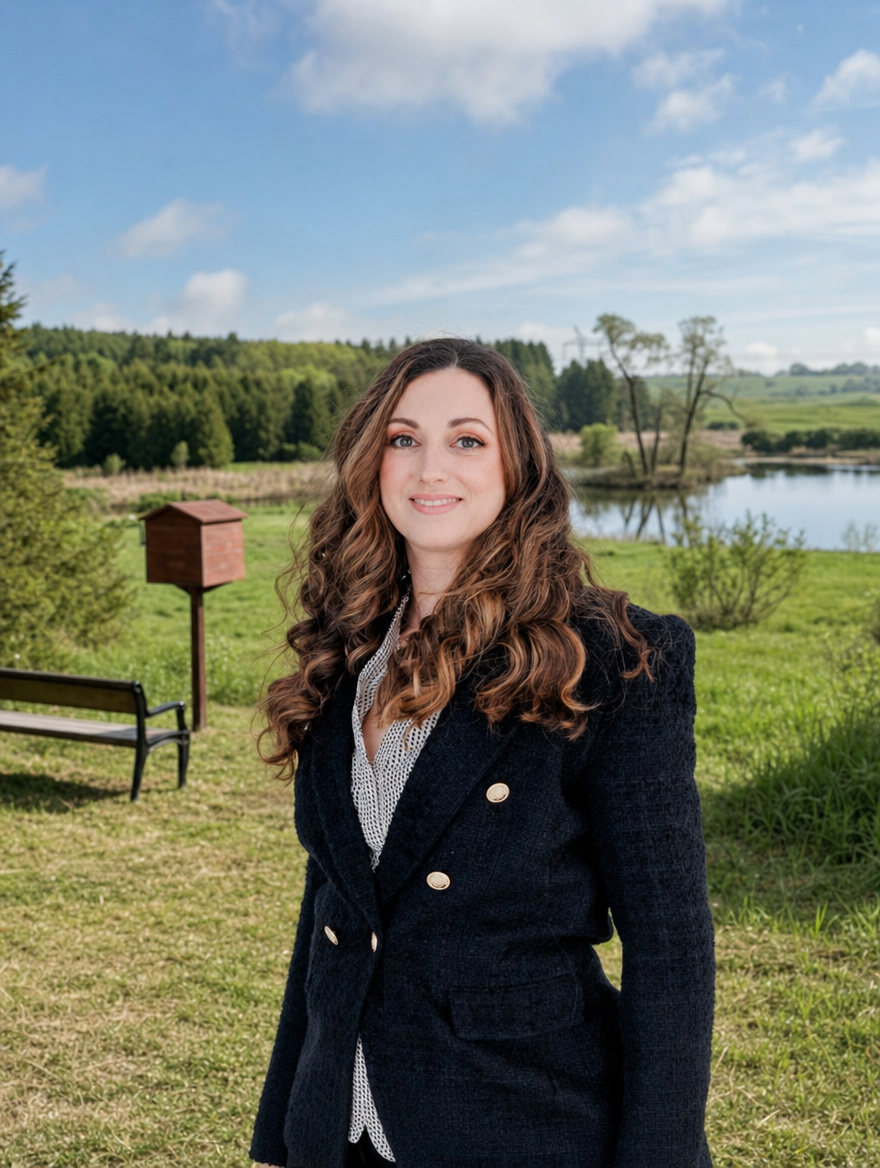
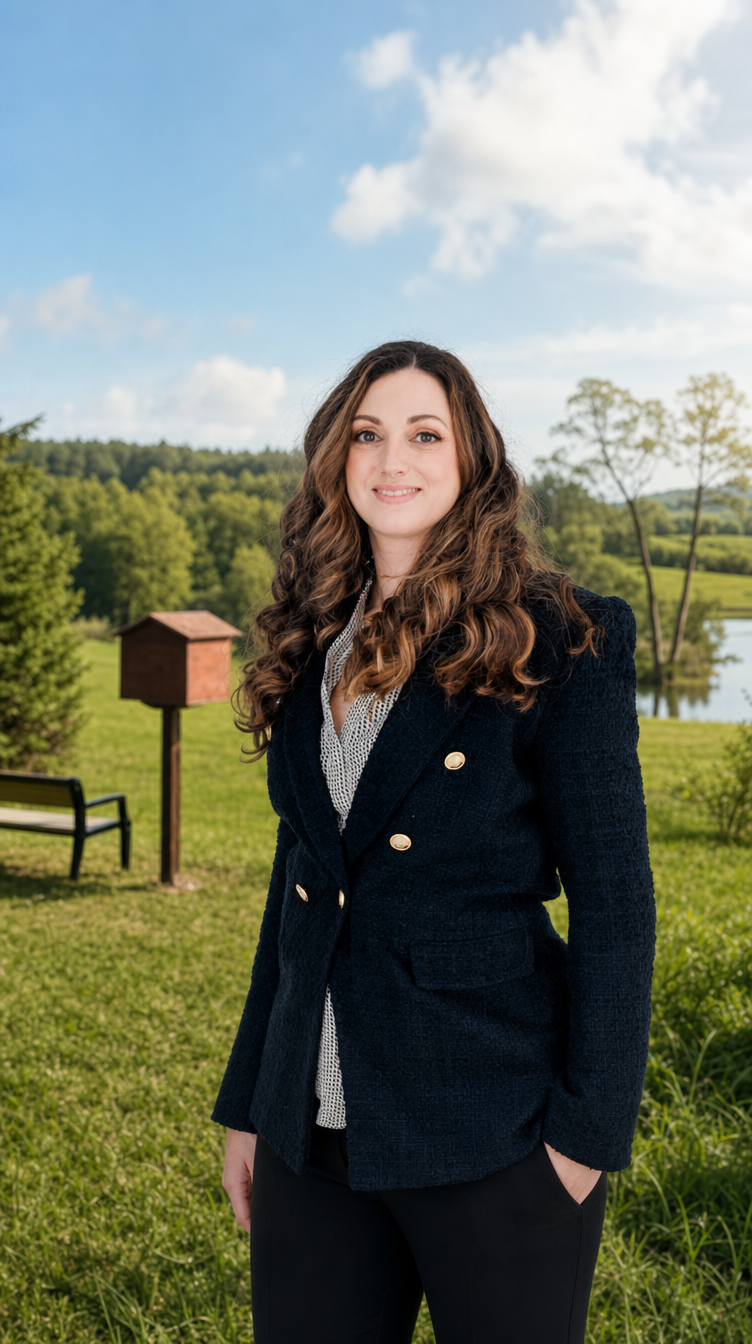
Restore full-bleed hero with updated photos

diff --git a/src/styles.css b/src/styles.css
@@ -349,7 +349,7 @@ a { color: inherit; }
 .hero {
   position: relative;
   min-height: 100vh;
-  background: linear-gradient(90deg, rgba(20, 20, 20, 0.18) 0%, rgba(20, 20, 20, 0.08) 28%, rgba(245, 239, 228, 0.72) 52%, rgba(245, 239, 228, 0.96) 100%);
+  background: url("/images/hero-desktop.png") 26% center / cover no-repeat;
   padding-top: 120px;
   padding-bottom: var(--sp-8);
   display: flex;
@@ -359,7 +359,9 @@ a { color: inherit; }
 .hero__scrim {
   position: absolute;
   inset: 0;
-  background: radial-gradient(circle at 78% 24%, rgba(255, 255, 255, 0.14), transparent 34%);
+  background:
+    linear-gradient(90deg, rgba(17, 17, 17, 0.18) 0%, rgba(17, 17, 17, 0.06) 34%, rgba(245, 239, 228, 0.08) 46%, rgba(245, 239, 228, 0.42) 62%, rgba(245, 239, 228, 0.78) 100%),
+    linear-gradient(180deg, rgba(17, 17, 17, 0.16) 0%, rgba(17, 17, 17, 0.02) 24%, rgba(17, 17, 17, 0.24) 100%);
   pointer-events: none;
 }
 .hero__inner {
@@ -369,16 +371,15 @@ a { color: inherit; }
   margin: 0 auto;
   padding: 0 var(--container-pad);
   width: 100%;
-  display: grid;
-  grid-template-columns: minmax(0, 1.05fr) minmax(420px, 0.95fr);
-  gap: var(--sp-6);
-  align-items: center;
+  display: flex;
+  justify-content: flex-end;
 }
-.hero__media {
-  min-height: 720px;
-  background: url("/images/hero-desktop.png") 46% center / cover no-repeat;
-  border-radius: 32px;
-  box-shadow: var(--shadow-lg);
+.hero__panel {
+  width: min(100%, 560px);
+  display: flex;
+  flex-direction: column;
+  gap: var(--sp-5);
+  align-items: flex-start;
 }
 .hero__copy {
   display: flex;
@@ -424,6 +425,7 @@ a { color: inherit; }
   font-weight: 500;
   margin: var(--sp-2) 0 0;
   max-width: 18ch;
+  text-shadow: 0 1px 0 rgba(255, 255, 255, 0.4);
 }
 .hero__mobile-ctas {
   display: none;
@@ -431,14 +433,13 @@ a { color: inherit; }
   margin-top: var(--sp-2);
 }
 .hero__form {
-  background: rgba(255, 255, 255, 0.66);
+  background: rgba(245, 239, 228, 0.88);
   backdrop-filter: blur(12px);
   border-radius: 28px;
   padding: var(--sp-6);
   box-shadow: var(--shadow-lg);
   width: 100%;
-  border: 1px solid rgba(255, 255, 255, 0.55);
-  grid-column: 2;
+  border: 1px solid rgba(255, 255, 255, 0.48);
 }
 .hero__scroll {
   position: absolute;
@@ -946,28 +947,34 @@ a { color: inherit; }
   .mobile-menu { display: flex; }
 
   .hero {
-    min-height: auto;
+    min-height: 100svh;
     padding-top: 84px;
     padding-bottom: var(--sp-6);
-    background: var(--c-cream);
+    background: url("/images/hero-mobile.png") center 28% / cover no-repeat;
   }
-  .hero__scrim { display: none; }
+  .hero__scrim {
+    display: block;
+    background:
+      linear-gradient(180deg, rgba(17, 17, 17, 0.08) 0%, rgba(17, 17, 17, 0.02) 26%, rgba(245, 239, 228, 0.04) 42%, rgba(245, 239, 228, 0.34) 58%, rgba(245, 239, 228, 0.94) 100%);
+  }
   .hero__inner {
-    grid-template-columns: 1fr;
-    gap: var(--sp-4);
+    display: flex;
+    align-items: flex-end;
+    justify-content: stretch;
     padding: 0 var(--container-pad);
+    min-height: calc(100svh - 84px - var(--sp-6));
   }
-  .hero__media {
-    order: 1;
-    min-height: 360px;
+  .hero__panel {
+    width: 100%;
+    gap: var(--sp-4);
+    margin-top: auto;
+    padding: var(--sp-5);
+    background: rgba(245, 239, 228, 0.9);
+    backdrop-filter: blur(10px);
     border-radius: 28px;
-    background: url("/images/hero-mobile.png") center 24% / cover no-repeat;
-  }
-  .hero__copy {
-    order: 2;
+    box-shadow: var(--shadow-lg);
   }
   .hero__mobile-ctas {
-    order: 3;
     display: flex;
     width: 100%;
     flex-wrap: wrap;
@@ -976,14 +983,13 @@ a { color: inherit; }
     flex: 1 1 140px;
   }
   .hero__form {
-    order: 4;
-    display: block;
     width: 100%;
     max-width: none;
-    padding: var(--sp-5);
-    background: var(--c-paper);
+    padding: 0;
+    background: transparent;
     backdrop-filter: none;
-    grid-column: auto;
+    border: 0;
+    box-shadow: none;
   }
   .hero__scroll { display: flex; color: var(--c-ink); }
   .hero__eyebrow { font-size: 16px; }

diff --git a/src/routes/index.tsx b/src/routes/index.tsx
@@ -58,28 +58,28 @@ function HomePage() {
         <section className="hero">
           <div className="hero__scrim" aria-hidden="true" />
           <div className="hero__inner">
-            <div className="hero__media" aria-hidden="true" />
+            <div className="hero__panel">
+              <div className="hero__copy">
+                <p className="t-eyebrow hero__eyebrow">Make Our Schools Work For</p>
+                <h1 className="hero__headline">
+                  Our Kids
+                  <span className="hero__underline" aria-hidden="true" />
+                </h1>
+                <p className="hero__subtitle">A fresh voice for King and Vaughan Ward 1 families.</p>
+              </div>
 
-            <div className="hero__copy">
-              <p className="t-eyebrow hero__eyebrow">Make Our Schools Work For</p>
-              <h1 className="hero__headline">
-                Our Kids
-                <span className="hero__underline" aria-hidden="true" />
-              </h1>
-              <p className="hero__subtitle">A fresh voice for King and Vaughan Ward 1 families.</p>
-            </div>
+              <div className="hero__mobile-ctas">
+                <Link to="/get-involved" className="btn btn--turquoise btn--lg">
+                  Volunteer
+                </Link>
+                <Link to="/get-involved" className="btn btn--mustard btn--lg">
+                  Donate
+                </Link>
+              </div>
 
-            <div className="hero__mobile-ctas">
-              <Link to="/get-involved" className="btn btn--turquoise btn--lg">
-                Volunteer
-              </Link>
-              <Link to="/get-involved" className="btn btn--mustard btn--lg">
-                Donate
-              </Link>
-            </div>
-
-            <div className="hero__form">
-              <JoinForm id="hero-join" />
+              <div className="hero__form">
+                <JoinForm id="hero-join" />
+              </div>
             </div>
           </div>
 
